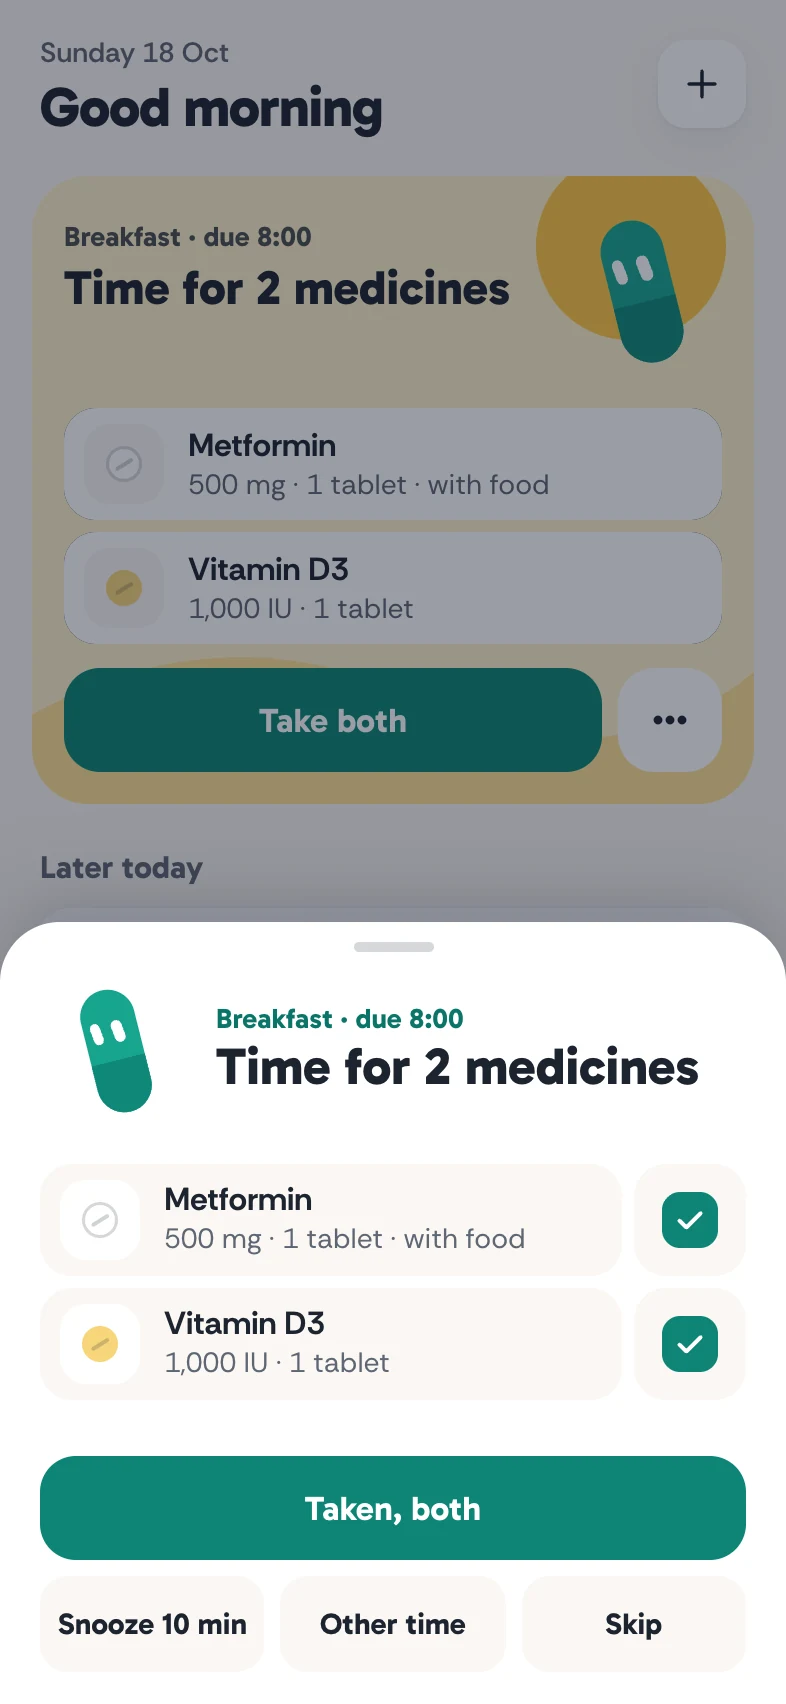
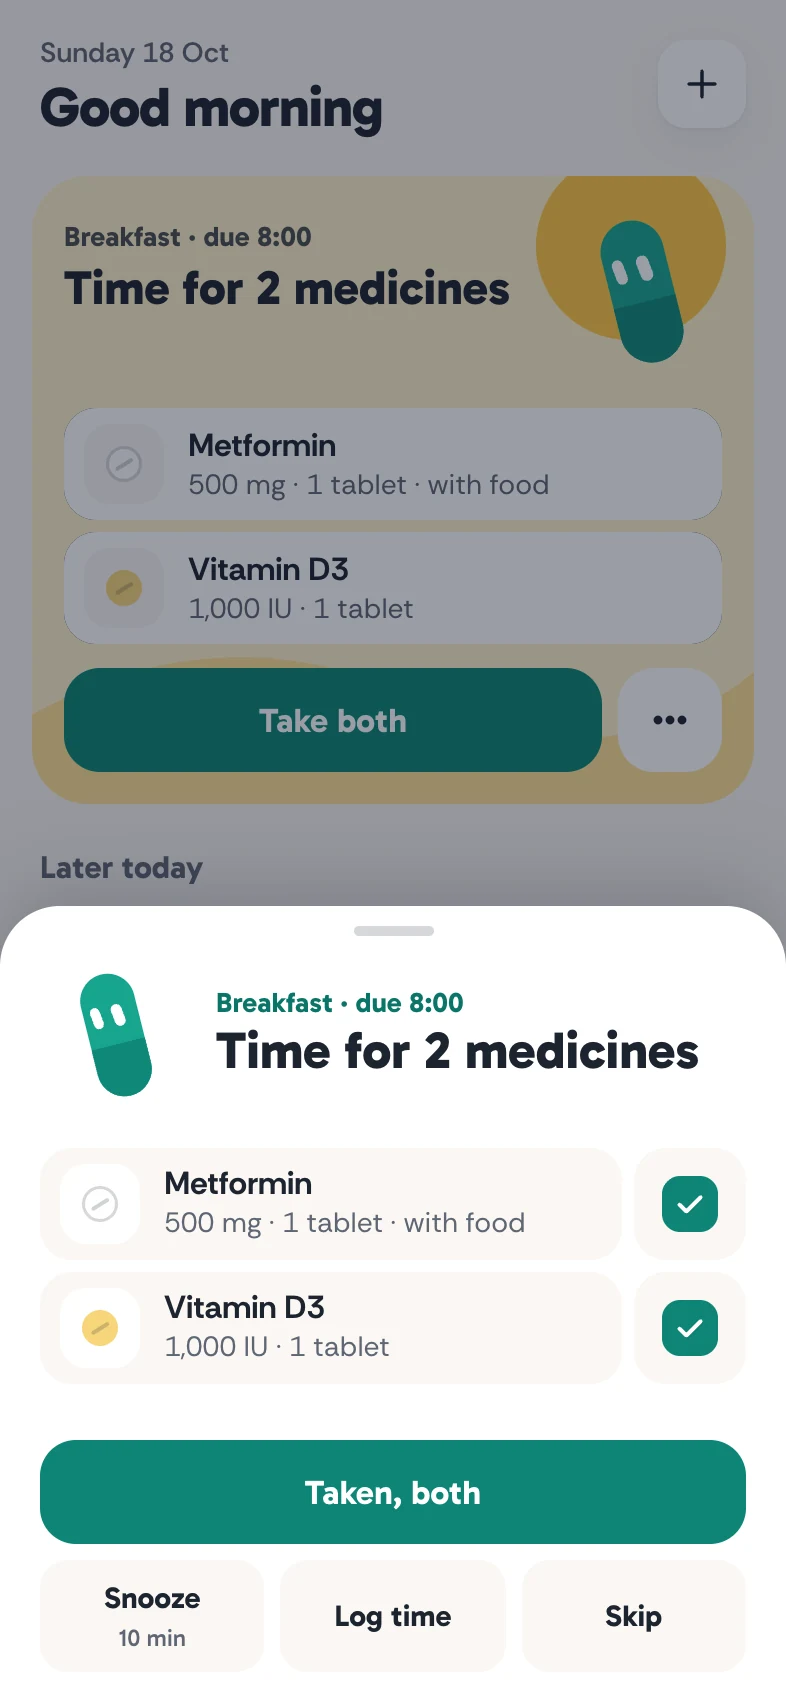
Refresh README guidance and affected app screenshots

diff --git a/README.md b/README.md
@@ -27,7 +27,7 @@ the screenshots use sample medicines, doses and logs. they demonstrate the app, 
 <p align="center">
   <img src="./docs/screenshots/today-phone.webp" width="32%" alt="Today on a phone: breakfast medicines with Take both, and separate before-meal insulin reminders later in the day">
   &nbsp;
-  <img src="./docs/screenshots/dose-phone.webp" width="32%" alt="The dose sheet: individual medicine checkboxes, Taken, Snooze, Other time and Skip">
+  <img src="./docs/screenshots/dose-phone.webp" width="32%" alt="The dose sheet: individual medicine checkboxes, Taken, Snooze for 10 minutes, Log time and Skip">
   &nbsp;
   <img src="./docs/screenshots/night-phone.webp" width="32%" alt="After the last dose: Pip asleep under a moon and stars, with tomorrow's next reminder">
 </p>
@@ -36,7 +36,7 @@ the screenshots use sample medicines, doses and logs. they demonstrate the app, 
 - **different doses at different times.** meal-time insulin can have separate prescribed unit amounts at breakfast, lunch and dinner. bedtime insulin can be a separate medicine. meal offsets are editable, and each dose shows its resulting reminder time. Tend does not calculate or recommend doses.
 - **a form that fits the medicine.** tablets, capsules, liquids, insulin, other injections, inhalers, drops, creams and patches get relevant fields and units. no tablet count for a cream, or food timing for a patch.
 - **flexible schedules.** every day, chosen weekdays, every few days, on and off cycles, once, or when needed. prescribed minimum gaps and daily limits are optional. courses end on their own and show their current day.
-- **logging that forgives.** take a group at once, one medicine, or log another time. snooze, skip, or swipe a row to skip just that one. actions have Undo. a dose you never logged says not logged.
+- **logging that forgives.** take a group at once, one medicine, or choose Log time to enter another time. snooze, skip, or swipe a row to skip just that one. actions have Undo. a dose you never logged says not logged.
 - **refill reminders.** optionally count your remaining tablets, ml, puffs, patches or insulin units. logging a dose reduces the supply by that dose's amount. a refill adds the saved refill quantity.
 - **edit, archive or delete.** open a medicine to change it. its menu can archive it while keeping history, or delete it and its logs with a brief Undo. closing a new-medicine sheet stays in Medicines, including when opened from Today.
 - **history without streaks.** a ring for each day of the week, the times for any day, and a percentage per medicine over 30 days.
@@ -91,6 +91,8 @@ opening Tend or reconnecting refreshes the server plan for an existing subscript
 
 on iPhones, web push requires adding Tend to the home screen. notification action buttons vary by browser; tapping a notification always opens its dose sheet. onboarding distinguishes permission from completed reminder setup: success shows a check mark and **Let's go**; a failed connection offers retry or continuing into the app.
 
+reminder sound follows your browser and device notification settings. **You → In-app sounds** controls Tend's own chimes when you log a dose; it does not change notification sound.
+
 ### installed app updates
 
 the home-screen app loads the deployed website. fresh navigations try the network first, with the cached page as an offline or slow-network fallback. scripts and styles have unique filenames, and service worker updates activate without reinstalling.
@@ -105,11 +107,11 @@ after deployment, close Tend from recent apps and reopen it online. an already-o
 - **opens straight in.** installed, Tend launches on a still Pip in cream or navy to match the theme, then shows the app in a single frame once medicines and fonts are loaded. there's no second splash, fade or hold, so nothing moves between launch and the finished screen.
 - **motion follows the task.** tabs crossfade without moving navigation. subpages open and return in opposite directions. desktop details animate within their own pane. selection indicators move between controls, and sheets and swipe rows start from their current position with gesture velocity carried into a damped spring.
 - **small feedback.** presses respond immediately, switches settle gently, optional sections expand in place, and toast messages enter and leave briefly. reduced motion uses short fades and immediate spring settling.
-- **a layout for the available space.** bottom tabs on phones, a rail on tablets and landscape phones, a context pane from 1024 px, and a sidebar from 1440 px. the main list keeps its scroll position when you return from a detail page.
+- **a layout for the available space.** bottom tabs on phones, a rail on tablets and landscape phones, a context pane from 1024 px, and a sidebar from 1440 px. short action labels, wrapping buttons, and cycle counters that stack when needed keep controls readable in narrow panes. the main list keeps its scroll position when you return from a detail page.
 - **app-owned pickers.** dates, times and medicine-name suggestions use Tend's own controls. sheets and onboarding fit above the keyboard while retaining the page canvas behind it.
 - **lost pages.** a mistyped link gets a real 404: Pip wobbles and looks around, because the page isn't on your schedule. it's a static copy of the in-app not-found screen, so it shows even before the app loads.
 - **night.** follows the system until you choose. theme changes crossfade, and logging the last bedtime dose gives Today a navy sky and a sleeping Pip.
-- **sound and touch.** quiet chimes are synthesized with Web Audio rather than shipped as files. Android haptics mark meaningful actions, and the sound preference is remembered.
+- **sound and touch.** quiet chimes are synthesized with Web Audio rather than shipped as files. Android haptics mark meaningful actions, and the In-app sounds preference is remembered.
 
 ## the stack
 
